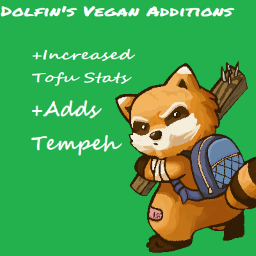
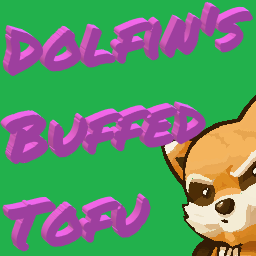
abandoning tempeh for the time being in order to host the operational aspects of the mod

diff --git a/README.md b/README.md
@@ -1,40 +1,30 @@
-# DolfinVeganAdds
+Project Zomboid Tofu Nutrition Mod
+Overview
+Buffed Tofu is a modification for the popular survival game Project Zomboid. This mod aims to enhance the nutritional value of tofu within the game, providing players with a more viable and rewarding food option.
 
-# Dolfin's Vegan Additions Mod for Project Zomboid
+Features
+Increased Nutritional Values: Tofu will now have higher nutritional values, making it a more appealing and strategic choice for players looking to maintain a healthy character in the post-apocalyptic world of Project Zomboid.
 
-## Overview
+Balanced Gameplay: The mod is designed to maintain balance within the game. The increased nutritional values of tofu are carefully calibrated to ensure that the overall game difficulty and challenge remain intact.
 
-"Dolfin's Vegan Additions" is a mod for Project Zomboid that enhances the culinary experience for vegan survivors in the zombie apocalypse. This mod introduces two significant changes to the game's food mechanics:
+Realism: The mod strives for a touch of realism, considering the nutritional benefits associated with tofu in real life. This adds an immersive element to the gameplay, making food choices more reflective of real-world nutritional considerations.
 
-1.  **Nutritional Buffs for Tofu:**
+Installation
+Download the Mod: Start by downloading the mod files from the official mod repository or another trusted source.
 
-    - Tofu now provides enhanced nutritional benefits to survivors. Enjoy a boost in essential nutrients when consuming tofu-based dishes.
+Extract Files: Extract the mod files from the downloaded archive using a file extraction tool.
 
-2.  **Introduction of Tempeh:**
+Copy to Mod Folder: Copy the extracted mod files to the "Mods" folder within your Project Zomboid installation directory.
 
-    - Tempeh, a versatile and protein-packed soy product, makes its debut in Project Zomboid. Survivors can now discover, cook, and enjoy tempeh-based recipes for a satisfying and nutritious meal.
+Activate the Mod: Launch Project Zomboid and navigate to the in-game mod menu. Activate the "Tofu Nutrition Mod" to apply the changes.
 
-## Features
-
-- Improved nutritional values for tofu-based food items.
-- Inclusion of tempeh as a new food item.
-
-## Installation
-
-1.  Download the latest release of the mod from the [Releases](#) section.
-2.  Extract the contents of the ZIP file into the "mods" folder of your Project Zomboid installation.
-3.  Launch Project Zomboid and enable the "Dolfin's Vegan Additions" mod in the in-game mod menu.
+Enjoy the Enhanced Tofu: Once activated, experience the enhanced nutritional benefits of tofu in the game.
 
 OR
 
-Simply subscribe to the mod on the Steam workshop
-https://steamcommunity.com/sharedfiles/filedetails/?id=3144082157&searchtext=vegan
+Simply download the mod via the Steam Workshop.
 
-## Compatibility
+Compatibility
+This mod is designed to be compatible with Build 41 of Project Zomboid. Ensure that you have the correct version of the game for optimal performance.
 
-This mod is designed to be compatible with [Project Zomboid Version 41](#). Ensure that you are using a compatible version of the game for the best experience.
-
-## Feedback and Contributions
-
-If you encounter any issues or have suggestions for improvement, feel free to [open an issue](#) on the GitHub repository. Contributions and pull requests are welcome!
-
+Happy gaming, and always remember - this is how you died.
